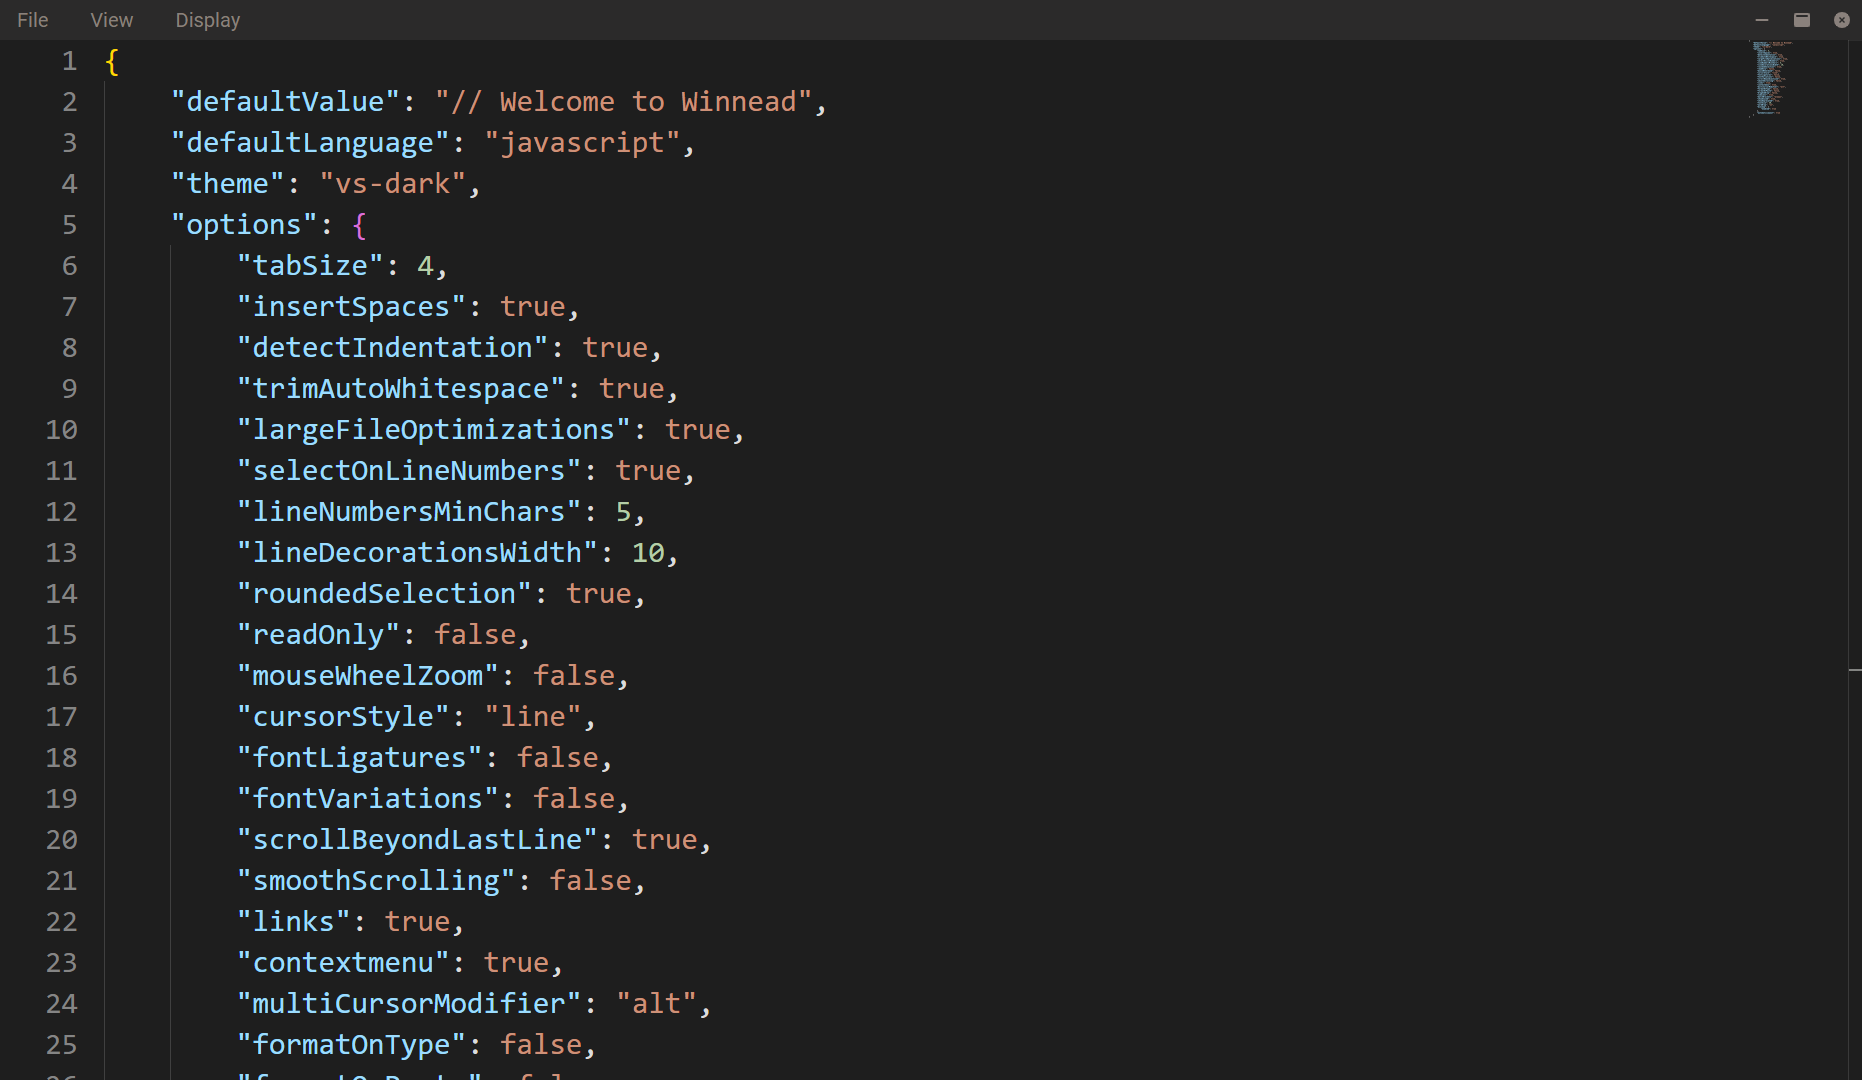
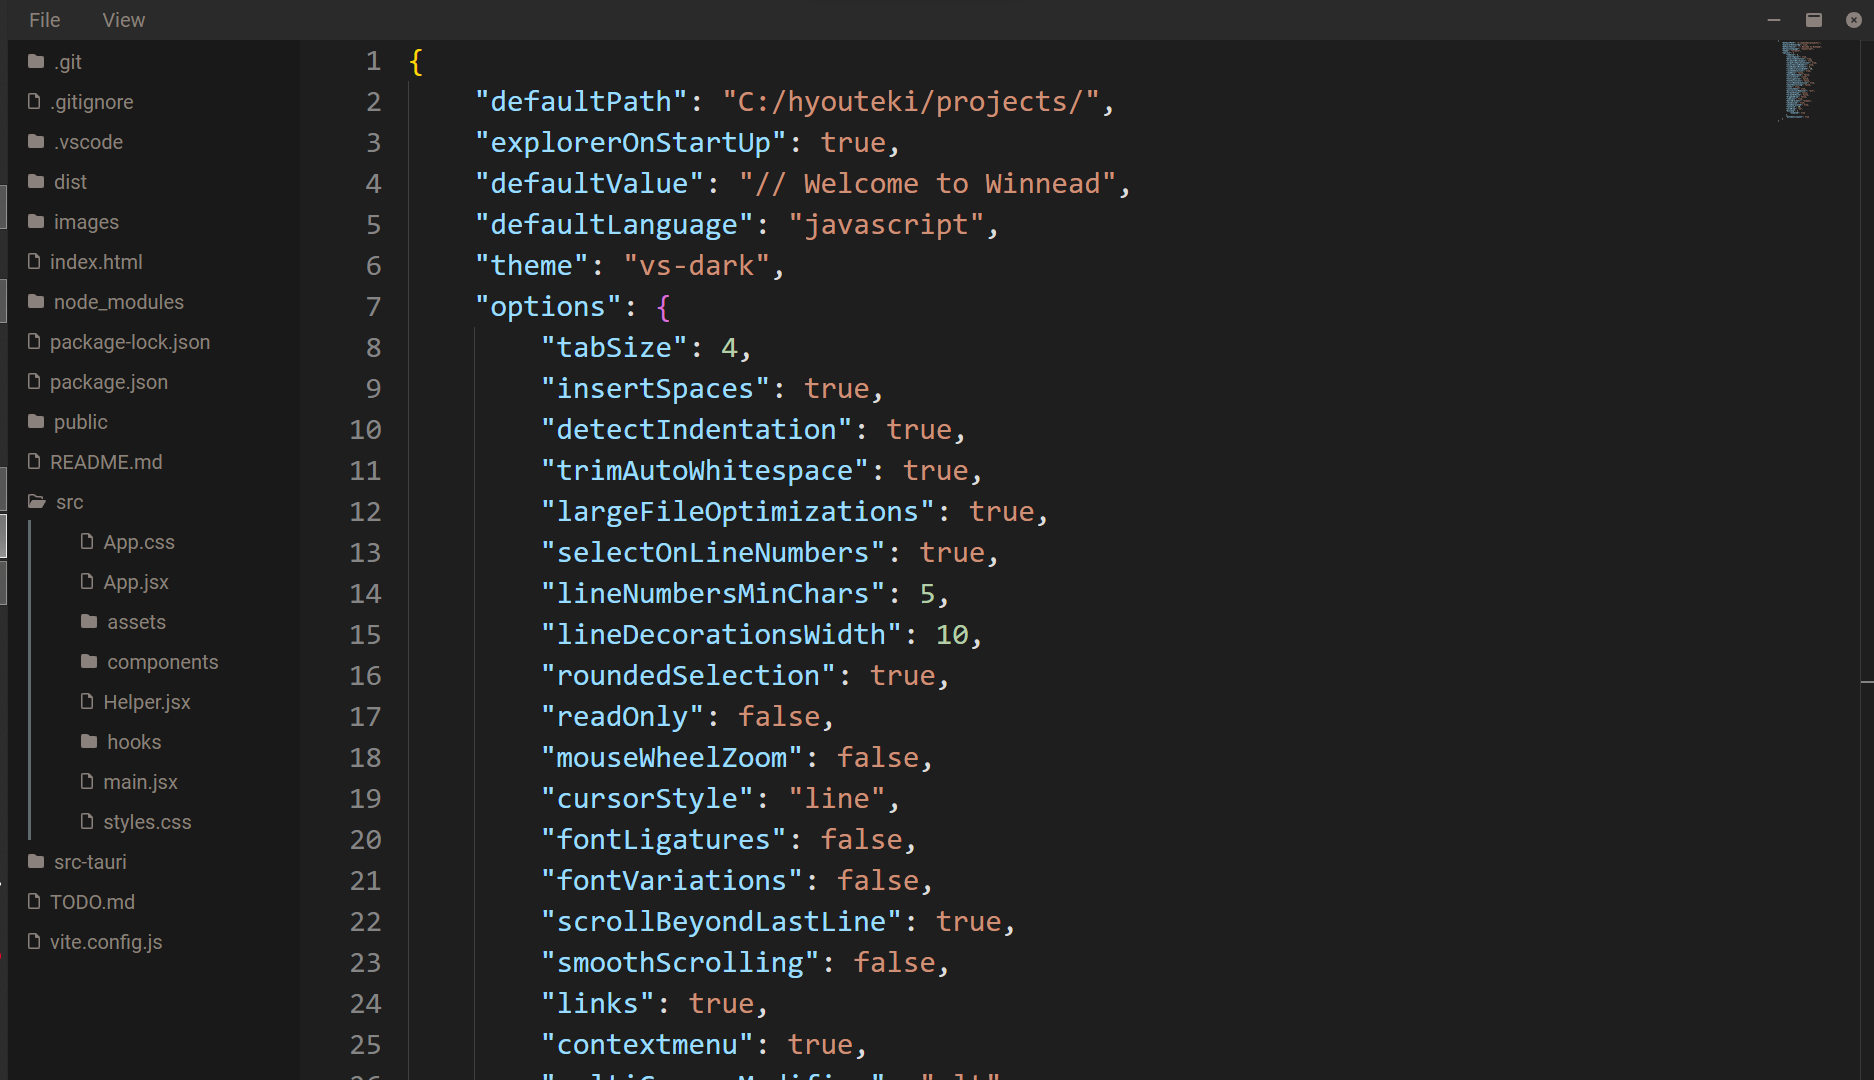
fixed minor issues

diff --git a/src/App.jsx b/src/App.jsx
@@ -15,10 +15,10 @@ const CONFIG_PATH = "C:/Winnead/config.json";
 const WINNEAD_DIR_PATH = "C:/Winnead";
 const DEFAULT_CONFIG = JSON.parse(DEFAULT_CONFIG_STR);
 
-const CONFIG = (await fs.exists(CONFIG_PATH))
-    ? JSON.parse(await fs.readTextFile(CONFIG_PATH))
-    : DEFAULT_CONFIG;
-if (!await fs.exists(CONFIG_PATH)) {
+let CONFIG = DEFAULT_CONFIG
+if (await fs.exists(CONFIG_PATH)) {
+    try {CONFIG = JSON.parse(await fs.readTextFile(CONFIG_PATH))} catch (e) {}
+} else {
     console.log("Saving @", CONFIG_PATH);
     await fs.writeTextFile(CONFIG_PATH, DEFAULT_CONFIG_STR);
 }
@@ -55,6 +55,7 @@ function App() {
     useEffect(() => { readCurDir(); }, []);
 
     const [file, setFile] = useState({
+        valid: false,
         path: DEFAULT_PATH,
         value: CONFIG.defaultValue,
         lang: CONFIG.defaultLanguage,
@@ -69,10 +70,11 @@ function App() {
 
     const onNewFile = useCallback(async () => {
         await onSave();
-        setFile({path: curPath, value: CONFIG.defaultValue, lang: CONFIG.defaultLanguage,});
+        setFile({ valid: false, path: curPath, value: CONFIG.defaultValue, lang: CONFIG.defaultLanguage, });
     }, [])
 
     const onOpen = useCallback(async () => {
+        await onSave();
         const selectedPath = await dialog.open({
             multiple: false,
             title: "Select File to Open",
@@ -84,10 +86,11 @@ function App() {
         const value = await fs.readTextFile(selectedPath);
         const ext = selectedPath.slice(selectedPath.lastIndexOf('.') + 1);
         const lang = fileType(ext);
-        setFile({ path: filepath, value: value, lang: lang });
+        setFile({ valid: true, path: filepath, value: value, lang: lang });
     }, []);
 
     const onOpenFolder = useCallback(async () => {
+        await onSave();
         const selectedPath = await dialog.open({
             multiple: false,
             title: "Select Folder to Open",
@@ -98,10 +101,11 @@ function App() {
         setExplorerVisibility(true);
         setCurPath(selectedPath);
         setExlorerItems(await fs.readDir(selectedPath, { recursive: false }));
-        setFile({path: curPath, value: CONFIG.defaultValue, lang: CONFIG.defaultLanguage});
+        setFile({ valid: false, path: curPath, value: CONFIG.defaultValue, lang: CONFIG.defaultLanguage });
     }, []);
 
     const onSave = useCallback(async () => {
+        if (!file.valid) return;
         console.log("Saving @", file.path);
         await fs.writeTextFile(file.path, editorRef.current.getValue());
     }, [file, editorRef]);
@@ -116,27 +120,39 @@ function App() {
         await fs.writeTextFile(selectedPath, editorRef.current.getValue());
         const ext = selectedPath.slice(selectedPath.lastIndexOf('.') + 1);
         const lang = fileType(ext);
-        setFile({ path: selectedPath, value: editorRef.current.getValue(), lang: lang });
+        setFile({ valid: true, path: selectedPath, value: editorRef.current.getValue(), lang: lang });
         await readCurDir();
     }, []);
-    
+
+    const onReloadConfig = useCallback(async () => {
+        if (await fs.exists(CONFIG_PATH)) {
+            try {CONFIG = JSON.parse(await fs.readTextFile(CONFIG_PATH))} catch (e) {}
+        } else {
+            console.log("Saving @", CONFIG_PATH);
+            await fs.writeTextFile(CONFIG_PATH, DEFAULT_CONFIG_STR);
+        }
+        editorRef.current.updateOptions(CONFIG.options)
+    });
+
     const onCloseFolder = useCallback(async () => {
+        await onSave();
         setExlorerItems([]);
         setExplorerVisibility(false);
     }, []);
 
     const onEditConfig = useCallback(async () => {
+        await onSave();
         if (!await fs.exists(WINNEAD_DIR_PATH)) {
             await fs.createDir(WINNEAD_DIR_PATH, { recursive: true });
         }
-        setFile({ path: CONFIG_PATH, value: await getConfig(), lang: "json" });
+        setFile({ valid: true, path: CONFIG_PATH, value: await getConfig(), lang: "json" });
     }, []);
 
     const openFile = async (filepath) => {
         const value = await fs.readTextFile(filepath);
         const lang = fileType(filepath.slice(filepath.lastIndexOf('.') + 1));
-        console.log("current file @", { path: filepath, value: value, lang: lang });
-        setFile({ path: filepath, value: value, lang: lang });
+        console.log("current file @", { valid: true, path: filepath, value: value, lang: lang });
+        setFile({ valid: true, path: filepath, value: value, lang: lang });
     }
 
     const expandFolder = async (item, parents) => {
@@ -180,10 +196,15 @@ function App() {
         setExlorerItems(newExplorerTree);
     }
 
+    const onToggleExplorer = () => {setExplorerVisibility(!explorerVisibility)};
+
     useOnCtrlKeyPress(onNewFile, "KeyN");
     useOnCtrlKeyPress(onOpen, "KeyO");
+    useOnCtrlKeyPress(onOpenFolder, "KeyK");
     useOnCtrlKeyPress(onSave, "KeyS");
     useOnCtrlKeyPress(onEditConfig, "Comma");
+    useOnCtrlKeyPress(onToggleExplorer, "KeyB");
+    useOnCtrlShiftKeyPress(onReloadConfig, "Comma");
     useOnCtrlShiftKeyPress(onSaveAs, "KeyS");
 
     console.log(explorerItems);
@@ -201,7 +222,7 @@ function App() {
                                 Open File&nbsp;&nbsp;<Keymap keymap={"Ctrl+O"} />
                             </button>
                             <button className="menu-item" onClick={onOpenFolder}>
-                                Open Folder
+                                Open Folder&nbsp;&nbsp;<Keymap keymap={"Ctrl+K"} />
                             </button>
                             <button className="menu-item" onClick={onSave}>
                                 Save&nbsp;&nbsp;<Keymap keymap={"Ctrl+S"} />
@@ -215,6 +236,9 @@ function App() {
                             <button className="menu-item" onClick={onEditConfig}>
                                 Edit Config&nbsp;&nbsp;<Keymap keymap={"Ctrl+,"} />
                             </button>
+                            <button className="menu-item" onClick={onReloadConfig}>
+                                Reload Config&nbsp;&nbsp;<Keymap keymap={"Ctrl+Shift+,"} />
+                            </button>
                             <button className="menu-item" onClick={onClose}>
                                 Exit&nbsp;&nbsp;<Keymap keymap={"Alt+F4"} />
                             </button>
@@ -223,19 +247,21 @@ function App() {
                     <div className="dropdown">
                         <button className="menu-item">View</button>
                         <div className="dropdown-content">
-                            <a href="/" className="menu-item">Explorer</a>
-                            <a href="/" className="menu-item">Runner</a>
-                            <a href="/" className="menu-item">Terminal</a>
+                            <button className="menu-item" onclick={onToggleExplorer}>
+                                Toggle Explorer&nbsp;&nbsp;<Keymap keymap={"Ctrl+B"} />
+                            </button>
+                            {/* <a href="/" className="menu-item">Runner</a>
+                            <a href="/" className="menu-item">Terminal</a> */}
                         </div>
                     </div>
-                    <div className="dropdown">
+                    {/* <div className="dropdown">
                         <button className="menu-item dropdown-button">Display</button>
                         <div className="dropdown-content">
                             <a href="/" className="menu-item">Open Explorer</a>
                             <a href="/" className="menu-item">New Terminal</a>
                             <a href="/" className="menu-item">Close Terminal</a>
                         </div>
-                    </div>
+                    </div> */}
                     <div className="window-button-container">
                         <div className="titlebar-button" id="titlebar-minimize" onClick={onMinimize}>
                             <svg className="svg" xmlns="http://www.w3.org/2000/svg" height="16" width="14" viewBox="0 0 448 512">
@@ -258,7 +284,7 @@ function App() {
             <div className="row content">
                 {explorerVisibility && <SplitPane split='vertical' sizes={sizes} onChange={setSizes}>
                     <Pane minSize="0%" maxSize='50%'>
-                        <Explorer items={explorerItems} openFile={openFile} 
+                        <Explorer items={explorerItems} openFile={openFile}
                             expandFolder={expandFolder} collapseFolder={collapseFolder} />
                     </Pane>
                     <Editor
